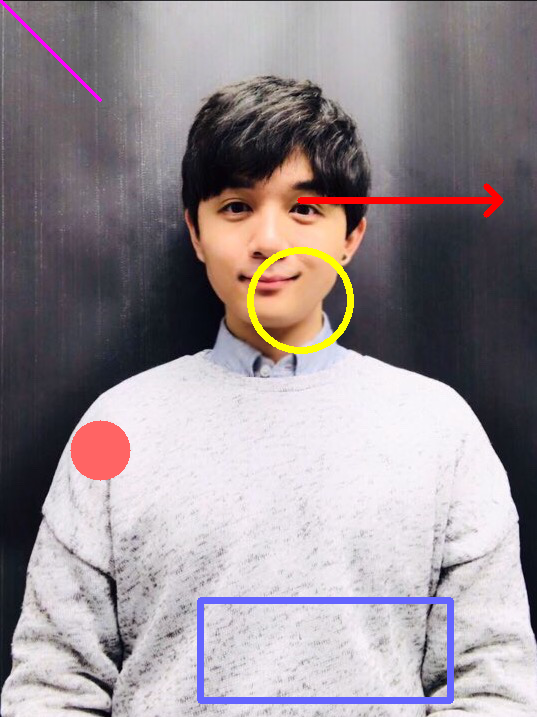
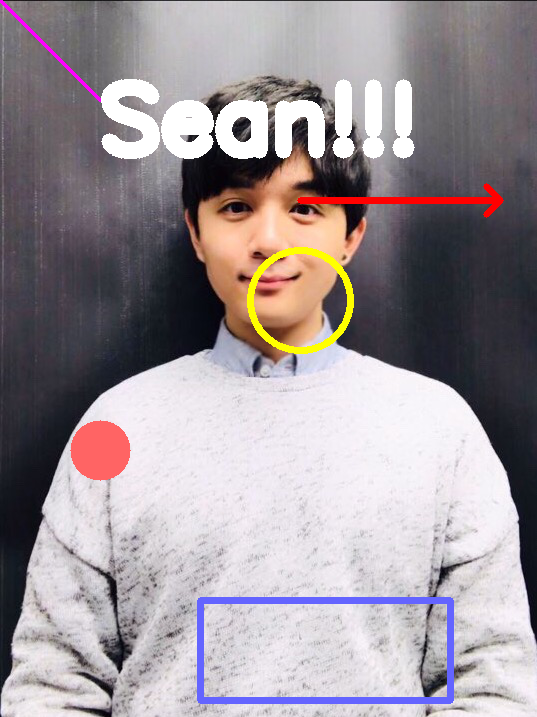
adding OpenCV tutorial article

Changed region(s): [[0.1788, 0.0921, 0.7747, 0.2455]]

diff --git a/Articles/OpenCV basics in python.md b/Articles/OpenCV basics in python.md
@@ -1,0 +1,269 @@
+# OpenCV basics in Python (Jupyter notebook)
+
+**OpenCV** (Open source Computer Vision) is an open-source software library that supports various applications in the field of real-time computer vision. Initially released about two decades ago by Intel, it has become one of the most popular and powerful libraries required in many deep learning projects. It was originally written in C++, but this article would like to focus on the basic/fundamental uses of this library in Python, especially in the Jupyter notebook environment. The purpose of this article is to provide the practical examples of the usages of some basic OpenCV algorithms on ***images and videos*** so that one can build upon the projects more easily. 
+
+* Codes (full version): [HERE](https://github.com/sungsujaing/ML_DL_articles_resources/blob/master/Code%20appendix/OpenCV_tutorial.ipynb)
+* OpenCV official document: [HERE](https://docs.opencv.org/3.0-beta/index.html)
+
+## Install and import OpenCV
+
+Some basic installation commends include, but not limited to:
+
+* `pip install opencv-python`
+* `conda install -c conda-forge opencv`
+
+Please note that Numpy library will also be installed along with OpenCV if not previously installed in the system. As Numpy is a highly optimized library for numerical operations, all the OpenCV structures are fully based on Numpy arrays. After installation, you can import and check the version of installed libraries.
+
+```python
+import cv2 # import OpenCV
+import numpy as np # import Numpy
+print(cv2.__version__)
+print(np.__version__)
+import os # to handle the path variables
+```
+
+## Handling *images*
+
+In this section, various functions will be explored to handle images. My profile picture ('opencv_SeanProfile.jpg') will be mainly used as an example, but any other images can be handled in the very same ways.
+
+### Loading, processing and writing
+
+```python
+# Loading
+image_path = os.path.join('..','images','opencv_SeanProfile.jpg') # (1)
+img = cv2.imread(image_path,1) # (2)
+cv2.imshow('image',img) # (3)
+cv2.waitKey(0) # (4)
+cv2.destroyAllWindows() # (5)
+cv2.waitKey(1) # (6)
+# Processing
+img = cv2.cvtColor(img,cv2.COLOR_BGR2GRAY) # (7)
+# Writing
+cv2.imwrite(os.path.join('..','images','opencv_SeanProfile_gray.png'),img) # (8)
+```
+
+(1) setting the image path for 'opencv_SeanProfile.jpg'
+
+(2) Load the image. The numeric flag specifies the color type of the loaded image. (0: grayscale, -1: image as it is (with alpha channel), 1: 3-channel (*BLUE, GREEN, RED*) color scale)
+
+(3) Display the image. Image window named 'image' appears and disappears automatically unless set the waitKey() below.
+
+(4) Display the image indefinitely until the keyboard input (any key). If not 0, the window appears for the corresponding milliseconds then disappear.
+
+(5) Destroy all opened windows
+
+(6) It is a trick to close the opened window in the Jupyter notebook environment. This step is only required when `cv2.imshow()` is forced to be used in a client/server environment like Jupyter notebook. Since the `cv2.imshow()` image box and the notebook share the same kernel, there occurs the conflict in who gets the control of the kernel, and the kernel crashes if you try to force quit the image window. While this trick closes the image window even in the Jupyter notebook, it should be noted that it does not completely terminate the window. Another workaround is to use `plt.imshow()` of Matplotlib to display images processed by OpenCV functions in an RGB color space, but this tutorial will stick with the generic `cv2.imshow()`.
+
+(7) Convert the color image to gray. One example of many image processing algorithms. 
+
+(8) Saving the processed image
+
+<p align="center"><img src="../images/opencv_load_process_write_summary.png" width="60%"></p>
+
+### Obtaining properties of the image
+
+```python
+img = cv2.imread(image_path,1)
+rows,cols,channel = img.shape # (1)
+print(img.shape) # height (rows), width (cols), channel
+print('image height (rows): {}\nimage width (cols): {}\nimage channel: {}'.format(rows,cols,channel))
+```
+
+(1) `.shape` gives you the dimensional properties of the image. Just like any regular Numpy array, it is in the form of **rows (height), columns (width), channel**. It should be noted that it is different from the **(width, height, channel)** standards.
+
+<p align="center"><img src="../images/opencv_shape_example.png" width="40%"></p>
+### Resizing
+
+```python
+img = cv2.imread(image_path,1)
+img = cv2.resize(img,(700,400)) # (1)
+print(img.shape)
+cv2.imshow('image',img) 
+cv2.waitKey(0)
+cv2.destroyAllWindows()
+cv2.waitKey(1)
+```
+
+(1) `.resize()` is used to resize the image. It should be noted that the desired dimension needs to be provided in the **(width, height)** or (cols, rows) format.
+
+<p align="center"><img src="../images/opencv_resize_summary.png" width="65%"></p>
+
+### Insert geometric shapes
+
+The detailed arguments required in the drawing functions can be found [HERE](https://docs.opencv.org/3.0-beta/modules/imgproc/doc/drawing_functions.html). It should be noted that the position arguments need to be provided in the **(width, height)** or (cols, rows) format. The color arguments are in a BGR format.
+
+```python
+img = cv2.imread(image_path,1)
+cv2.line(img,(0,0),(100,100),(255,0,255),2) # pink diagnal line
+cv2.circle(img,(300,300),50,(0,255,255),5) # yellow circle (hollow)
+cv2.circle(img,(100,450),30,(100,100,255),-1) # light red circle (filled)
+cv2.rectangle(img,(200,600),(450,700),(255,100,100),5) # blueish rectengle
+cv2.arrowedLine(img,(300,200),(500,200),(0,0,255),6) # red arrow
+cv2.putText(img,"Sean!!!", (100,150), cv2.FONT_HERSHEY_SIMPLEX,3,(255,255,255),cv2.LINE_AA) # white text
+cv2.imshow('image',img) 
+cv2.waitKey(0)
+cv2.destroyAllWindows()
+cv2.waitKey(1)
+```
+
+<p align="center"><img src="../images/opencv_shapes_example.png" width="30%"></p>
+### Find pixel coordinate in the image
+
+As shown above, in order to insert shapes or texts on the image, the pixel coordinates need to be specified.  The following custom code allows us to obtain the pixel coordinates easily so as to provide them in other functions. It utilizes a mouse's `on_click` event to explore the image.
+
+```python
+def on_click(c_event,x,y,flags,param):
+    if c_event == cv2.EVENT_LBUTTONDOWN:
+        text = '({},{})'.format(x,y)
+        cv2.circle(img,(x,y),5,(0,0,255),-1)
+        cv2.line(img,(x,0),(x,rows),(0,0,255),1,4)
+        cv2.line(img,(0,y),(cols,y),(0,0,255),1,4)
+        cv2.putText(img,text,(x+10,y),cv2.FONT_HERSHEY_PLAIN,1.5,(0,0,255),2,cv2.LINE_AA)
+        cv2.imshow('image',img)
+        
+img = cv2.imread(image_path,1)
+cv2.namedWindow('image')
+clean_img = img.copy()
+cv2.setMouseCallback('image',on_click)
+
+while True:
+    cv2.imshow('image',img)  
+    key = cv2.waitKey(1) & 0xFF # (1)   
+    if key == ord('r'): # (2)
+        img = clean_img.copy()
+    if key == ord('q'): # (3)
+        break
+cv2.destroyAllWindows()
+cv2.waitKey(1)
+```
+
+(1) 0xFF mask is to make sure the keyboard inputs are read properly even when the NumLock is activated. For more details, please refer to [Here](https://stackoverflow.com/questions/35372700/whats-0xff-for-in-cv2-waitkey1). 
+
+(2) Press 'r' to reset the window
+
+(3) Press 'q' to close the window
+
+<p align="center"><img src="../images/opencv_getting_coord_example.png" width="35%"></p>
+### Simple processing - blurring to remove noise
+
+Other blurring types include: 
+
+* Gaussian blurring
+* Median blurring (good to handle salt-and-pepper noise)
+
+For all available blurring algorithms and required arguments, please refer to the [OpenCV document](https://docs.opencv.org/3.1.0/d4/d13/tutorial_py_filtering.html).
+
+```python
+img = cv2.imread(image_path,1)
+img_blur = cv2.blur(img,(5,5)) # (1)
+img_bf = cv2.bilateralFilter(img,9, 75, 75) # (2)
+cv2.imshow('image',img) 
+cv2.waitKey(0)
+cv2.imshow('image_blur',img_blur) 
+cv2.waitKey(0)
+cv2.imshow('image_bf',img_bf) 
+cv2.waitKey(0)
+cv2.destroyAllWindows()
+cv2.waitKey(1)
+```
+
+(1) Blurring by averaging
+
+(2) Blurring while preserving the edge
+
+<p align="center"><img src="../images/opencv_blurring_summary.png" width="75%"></p>
+
+### Simple processing - canny edge detection
+
+Other edge detection types include:
+
+* Sobel edge detection
+* Laplacian edge detection
+
+For the full details about the required arguments, please refer to the [OpenCV document](https://docs.opencv.org/3.1.0/da/d22/tutorial_py_canny.html).
+
+```python
+img = cv2.imread(image_path,1)
+img_canny = cv2.Canny(img,50,100) # (1)
+cv2.imshow('image',img) 
+cv2.waitKey(0)
+cv2.imshow('image_canny',img_canny) 
+cv2.waitKey(0)
+cv2.destroyAllWindows()
+cv2.waitKey(1)
+```
+
+(1) Canny edge detection
+
+<p align="center"><img src="../images/opencv_canny_summary.png" width="65%"></p>
+
+### Simple processing - threshold filtering
+
+For the threshold filtering, the source image should be in grayscale. Other threshold filtering types include:
+
+- Binary inversed (global): `cv2.THRESH_BINARY_INV`
+- To-zero inversed (global): `cv2.THRESH_TOZERO_INV`
+- Adaptive with Gaussian weighted threshold (adaptive): `cv2.ADAPTIVE_THRESH_GAUSSIAN_C`
+
+For all available threshold filtering algorithms and required arguments, please refer to the [OpenCV document](https://docs.opencv.org/3.4.0/d7/d4d/tutorial_py_thresholding.html).
+
+```python
+img = cv2.imread(image_path,0)
+ret,th_binary = cv2.threshold(img,100,255,cv2.THRESH_BINARY) # (1)
+ret,th_trunc = cv2.threshold(img,100,255,cv2.THRESH_TRUNC) # (2)
+ret,th_tozero = cv2.threshold(img,100,255,cv2.THRESH_TOZERO) # (3)
+
+th_adap_mean = cv2.adaptiveThreshold(img,255,cv2.ADAPTIVE_THRESH_MEAN_C,cv2.THRESH_BINARY,11,2) # (4)
+
+cv2.imshow('image_binary',th_binary) 
+cv2.waitKey(0)
+cv2.imshow('image_trunc',th_trunc) 
+cv2.waitKey(0)
+cv2.imshow('image_tozero',th_tozero) 
+cv2.waitKey(0)
+cv2.imshow('image_adap',th_adap_mean) 
+cv2.waitKey(0)
+cv2.destroyAllWindows()
+cv2.waitKey(1)
+```
+
+(1) binary: 0 for below th and 1 for above th
+
+(2) trunc: keep the same value up to th and set th for all the higher values (similar to low-pass filter)
+
+(3) tozero: 0 for below th and keep the same value for above th
+
+(4) adaptive filtering calculates th for small regions of the image; ***better result for an image with varying illuminations***. th value is the mean of the neighbourhood area.
+
+<p align="center"><img src="../images/opencv_th_summary.png" width="75%"></p>
+
+### Optimizing the parameters
+
+Many OpenCV functions require the parameters to be optimized for the best image processing results. The following code shows an example of parameter tunning where two Trackbars are used to explore the optimal parameters of the Canny edge detection algorithm for the given image.
+
+```python
+img = cv2.imread(image_path,1)
+cv2.namedWindow('image_canny')
+
+cv2.createTrackbar('th1','image_canny',100,255,lambda x: None)
+cv2.createTrackbar('th2','image_canny',200,255,lambda x: None)
+
+while True:
+    cv2.imshow('image_canny',img_canny)
+    if cv2.waitKey(1) & 0xFF == ord('q'):
+        break
+        
+    th1 = cv2.getTrackbarPos('th1','image_canny')
+    th2 = cv2.getTrackbarPos('th2','image_canny')
+    img_canny = cv2.Canny(img,th1,th2)
+cv2.destroyAllWindows()
+cv2.waitKey(1)
+print('chosen th1: {}\nchosen th2: {}'.format(th1,th2))
+```
+
+<p align="center"><img src="../images/opencv_param_tunning_summary.png" width="90%"></p>
+
+## Upcoming tutorials include:
+
+* video analysis
+* real-time webcam input analysis
